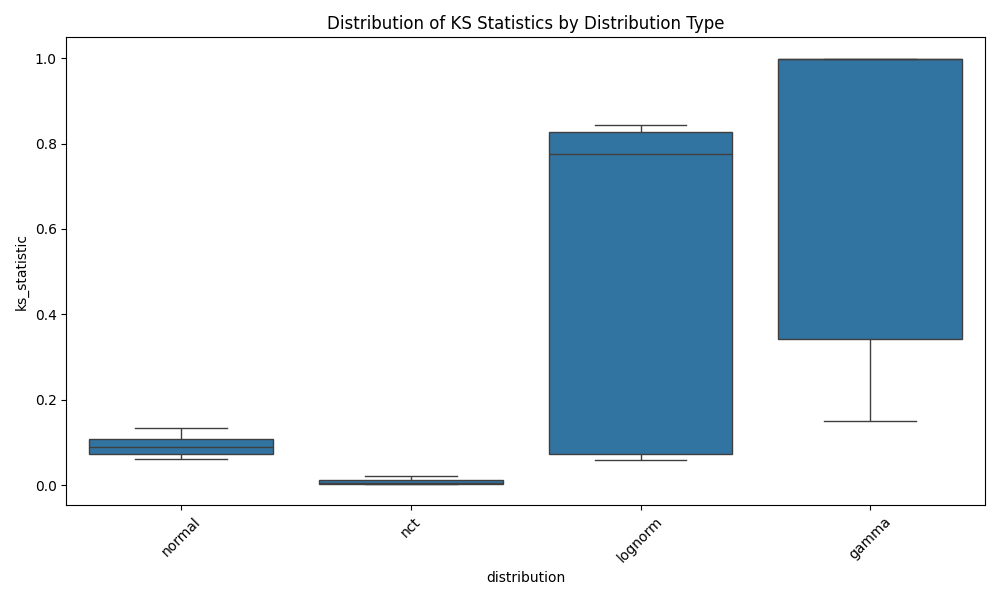
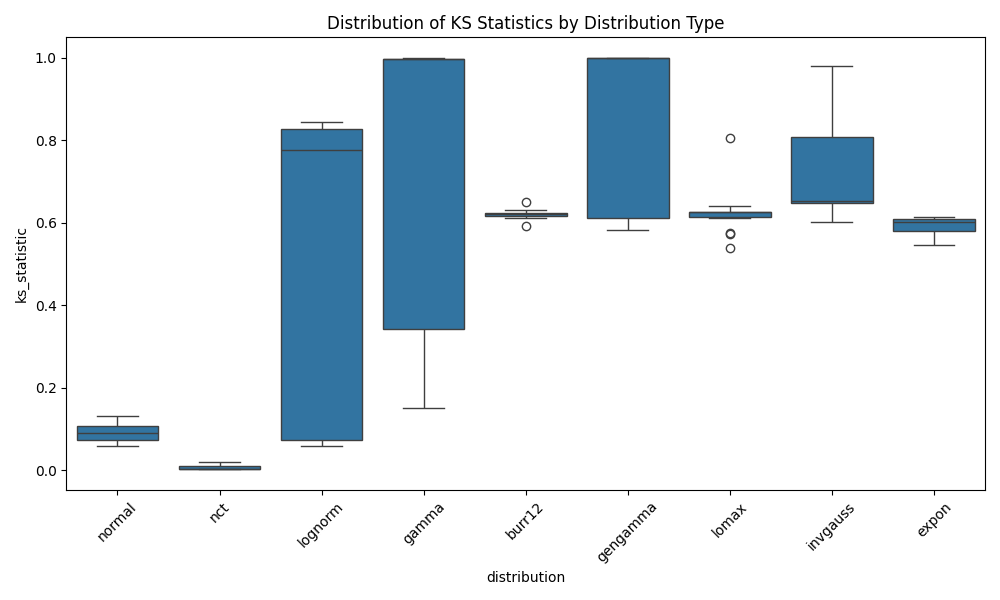
Added new distributions fittings such as Burr XII, Generalized Gamma, Lomax (Pareto II), Inverse Gaussian, exponential

diff --git a/fit_new_distributions.py b/fit_new_distributions.py
@@ -1,0 +1,100 @@
+"""
+Fit Burr XII, Generalized Gamma, Lomax, Inverse Gaussian, Exponential
+for all airports and save results in distribution_comparison.csv
+so that ks_test_visualization.py can generate updated heatmap, boxplot and summary.
+"""
+
+import os
+import numpy as np
+import pandas as pd
+from pathlib import Path
+from scipy import stats
+from scipy.stats import burr12, gengamma, lomax, invgauss, expon
+from tqdm import tqdm
+
+# -------------------------------------------------------------
+# 1. DEFINE NEW DISTRIBUTIONS
+# -------------------------------------------------------------
+NEW_DISTRIBUTIONS = {
+    "burr12": burr12,
+    "gengamma": gengamma,
+    "lomax": lomax,
+    "invgauss": invgauss,
+    "expon": expon,
+}
+
+
+def fit_distribution(dist, data):
+    """Fit distribution and compute params, AIC, KS."""
+    try:
+        params = dist.fit(data)
+        frozen = dist(*params)
+
+        # log-likelihood
+        loglik = np.sum(frozen.logpdf(data))
+        k = len(params)
+        aic = 2 * k - 2 * loglik
+
+        # KS test
+        ks_stat, p_value = stats.kstest(data, frozen.cdf)
+
+        return params, aic, ks_stat, p_value
+    except Exception as e:
+        print(f"Fit failed: {dist.name} -> {e}")
+        return None, None, None, None
+
+
+def analyze_airport(airport_code):
+    """Loads delays for 1 airport and fits all 5 new distributions."""
+    data_path = Path("data/RawData") / f"Delays_{airport_code}.npy"
+    raw = np.load(data_path, allow_pickle=True)
+    delays = raw[:, 3].astype(float)  # 4th column is delays
+
+    results = []
+
+    for name, dist in NEW_DISTRIBUTIONS.items():
+        params, aic, ks_stat, p_value = fit_distribution(dist, delays)
+        if params is None:
+            continue
+
+        results.append({
+            "distribution": name,
+            "aic": aic,
+            "ks_statistic": ks_stat,
+            "p_value": p_value,
+            "parameters": str(params)
+        })
+
+    return pd.DataFrame(results)
+
+
+def save_results(df, airport_code):
+    """Appends new distribution results to existing distribution_comparison.csv."""
+    airport_dir = Path("results/distribution_analysis") / airport_code
+    airport_dir.mkdir(exist_ok=True)
+
+    file = airport_dir / "distribution_comparison.csv"
+
+    if file.exists():
+        old = pd.read_csv(file)
+        merged = pd.concat([old, df], ignore_index=True)
+        merged.to_csv(file, index=False)
+    else:
+        df.to_csv(file, index=False)
+
+
+def main():
+    data_dir = Path("data/RawData")
+    airports = [f.stem.replace("Delays_", "") for f in data_dir.glob("Delays_*.npy")]
+
+    print(f"Fitting NEW distributions for {len(airports)} airports...\n")
+
+    for airport in tqdm(airports):
+        df = analyze_airport(airport)
+        save_results(df, airport)
+
+    print("\nDone! Now run:  python ks_test_visualization.py")
+
+
+if __name__ == "__main__":
+    main()
